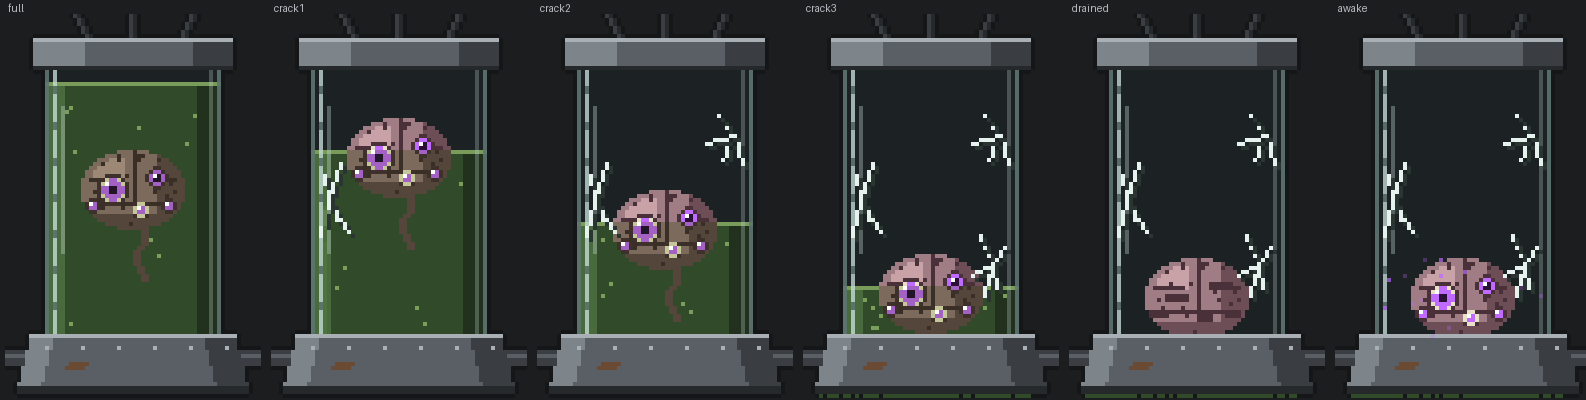
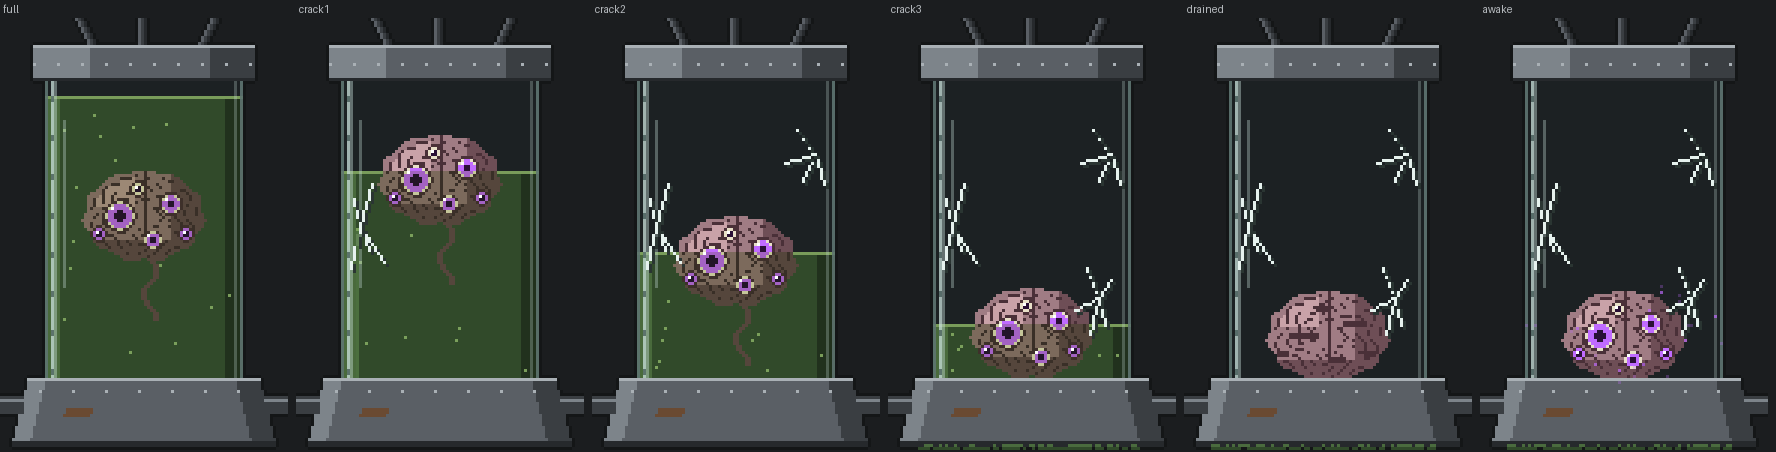
Brain vat at 3x4.5 tiles, brain folds redone
Claude-Session: https://claude.ai/code/session_017RM7tWVFFchFrbQYy4G9ho

diff --git a/ArtSource/bosses/make_brain_vat.py b/ArtSource/bosses/make_brain_vat.py
@@ -1,5 +1,5 @@
 """The brain in the vat (Yan, 2026-11-03): a psychic mutant brain with several eyes, floating in murky liquid in a lab vat.
-Drawn at double resolution like the HD mutants (64x96, ppu 32 -> 2x3 tiles). States: full, crack1-3 (liquid drains), drained
+Drawn at double resolution like the HD mutants (96x144, ppu 32 -> 3x4.5 tiles; Yan: "go bigger" than 2x3). States: full, crack1-3 (liquid drains), drained
 (eyes shut), awake (eyes open, before the void pull takes it away). Procedural shapes snapped to the pixel grid, the locked
 palette rules (near-black outline, flat 3-tone shading, saturated colour only in the eyes/psi glow).
     python3 ArtSource/bosses/make_brain_vat.py [out_dir]
@@ -7,7 +7,9 @@ palette rules (near-black outline, flat 3-tone shading, saturated colour only in
 import sys, os, math, random
 from PIL import Image
 
-W, H = 64, 96
+K = 1.5                                     # every length below was laid out at 64x96; K scales it up
+W, H = 96, 144
+def k(v): return int(round(v * K))
 def hexc(h, a=255): h = h.lstrip('#'); return (int(h[0:2], 16), int(h[2:4], 16), int(h[4:6], 16), a)
 OUT = hexc('#141617')
 STEEL = [hexc(c) for c in ('#26292c', '#3a3e42', '#5a5f65', '#7d848a', '#a9b0b5')]
@@ -20,10 +22,10 @@ BR = {'d': hexc('#6e4e56'), 'b': hexc('#a07c84'), 'l': hexc('#c9a2a8'), 'k': hex
 EYE_W, EYE_I, EYE_P, EYE_G, LID = hexc('#e8e0c8'), hexc('#c06bff'), hexc('#2a1036'), hexc('#ffffff'), hexc('#5a3a44')
 PSI = hexc('#c06bff', 70)
 
-GX0, GX1, GY0, GY1 = 10, 53, 14, 80        # glass interior
-LEVELS = {'full': 17, 'crack1': 34, 'crack2': 52, 'crack3': 68, 'drained': 81, 'awake': 81}
-EYES = [(-5, 0, 3.4), (6, -3, 2.4), (2, 5, 2.0), (-10, 4, 1.6), (9, 4, 1.6)]
-CRACKS = [(14, 46, [(-1, -6), (3, -9), (2, 5), (5, 8), (-2, 9)]), (49, 30, [(-4, -5), (-3, 6), (2, 7), (-7, 2)]), (47, 62, [(-3, -7), (3, -4), (-5, 3), (1, 6), (-2, 8)])]
+GX0, GX1, GY0, GY1 = k(10), k(53), k(14), k(80)   # glass interior
+LEVELS = {n: k(v) for n, v in {'full': 17, 'crack1': 34, 'crack2': 52, 'crack3': 68, 'drained': 81, 'awake': 81}.items()}
+EYES = [(k(dx), k(dy), r * K) for dx, dy, r in [(-5, 0, 3.4), (6, -3, 2.4), (2, 5, 2.0), (-10, 4, 1.6), (9, 4, 1.6), (-1, -6, 1.4)]]
+CRACKS = [(k(x), k(y), [(k(a), k(b)) for a, b in legs]) for x, y, legs in [(14, 46, [(-1, -6), (3, -9), (2, 5), (5, 8), (-2, 9)]), (49, 30, [(-4, -5), (-3, 6), (2, 7), (-7, 2)]), (47, 62, [(-3, -7), (3, -4), (-5, 3), (1, 6), (-2, 8)])]]
 
 def px(im, x, y, c):
     if 0 <= x < W and 0 <= y < H:
@@ -34,17 +36,18 @@ def tint(c, k, g):                         # under the liquid: darker and greene
     return (int(c[0] * k), int(min(255, c[1] * k + g)), int(c[2] * k * 0.9), c[3])
 
 def brain(im, cx, cy, level, eyes_open, rng):
-    rx, ry = 13, 10
+    rx, ry = k(13), k(10)
     for y in range(cy - ry - 1, cy + ry + 2):
         for x in range(cx - rx - 1, cx + rx + 2):
             u, v = (x - cx + 0.5) / rx, (y - cy + 0.5) / ry
             d = u * u + v * v
-            if d > 1: continue
+            ang = math.atan2(v, u)
+            if d > 1 + 0.07 * math.sin(ang * 11): continue             # a lumpy edge
             c = BR['l'] if (u < -0.15 and v < -0.2 and d < 0.75) else BR['d'] if (u > 0.45 or v > 0.55) else BR['b']
             # folds: a wavy dark line pattern, the midline split
-            w = math.sin((x - cx) * 0.62 + math.sin((y - cy) * 0.55) * 2.6) * math.cos((y - cy) * 0.5)
+            w = math.sin(math.sqrt(d) * 16 + math.sin(ang * 6 + (1 if x > cx else 0) * 2) * 1.7)   # folds: wavy loops round the middle
             if abs(x - cx) < 1 and v < 0.6: c = BR['k']
-            elif abs(w) < 0.13 and 0.12 < d < 0.82: c = BR['k']
+            elif abs(w) < 0.32 and 0.05 < d < 0.86: c = BR['k']
             if y >= level: c = tint(c, 0.78, 10)
             px(im, x, y, c)
     for dx, dy, r in EYES:                 # eyes sunk in the folds
@@ -63,8 +66,8 @@ def brain(im, cx, cy, level, eyes_open, rng):
                 if y >= level: c = tint(c, 0.85, 8)
                 px(im, x, y, c)
         if eyes_open and r >= 1.5: px(im, int(ex - r * 0.4), int(ey - r * 0.4), EYE_G)
-    for k in range(14):                    # the stem, swaying down
-        x = cx + 1 + int(round(math.sin(k * 0.6) * 1.5)); y = cy + ry - 1 + k
+    for j in range(k(14)):                 # the stem, swaying down
+        x = cx + 1 + int(round(math.sin(j * 0.6 / K) * 1.5 * K)); y = cy + ry - 1 + j
         if y > GY1 - 1: break
         for dx in (0, 1): px(im, x + dx, y, tint(BR['d'], 0.78, 10) if y >= level else BR['d'])
 
@@ -80,18 +83,18 @@ def vat(state, frame=0):
             else: c = LIQ['d'] if x > GX1 - 6 else LIQ['l'] if x < GX0 + 5 else LIQ['b']
             px(im, x, y, c)
     if level < GY1:                         # bubbles rising
-        for i in range(10):
+        for i in range(16):
             bx = rng.randint(GX0 + 3, GX1 - 3); by = rng.randint(level + 2, GY1 - 2)
             px(im, bx, by, LIQ['s'])
     awake = state in ('full', 'crack1', 'crack2', 'crack3', 'awake')
-    cy = 44 if level < 30 else min(GY1 - 9, level + 2)   # half under the surface as it drops
-    if state in ('drained', 'awake'): cy = GY1 - 9   # slumped on the floor of the vat
-    brain(im, 32, cy, level, awake, rng)
+    cy = k(44) if level < k(30) else min(GY1 - k(9), level + k(2))   # half under the surface as it drops
+    if state in ('drained', 'awake'): cy = GY1 - k(9)   # slumped on the floor of the vat
+    brain(im, W // 2, cy, level, awake, rng)
     # glass: the lit left edge, the darker right rim, a reflection streak
     for y in range(GY0, GY1):
         px(im, GX0, y, GLASS_RIM); px(im, GX1, y, GLASS_RIM)
-        px(im, GX0 + 2, y, GLASS_HI if y % 9 not in (0, 1) else GLASS_RIM)
-        if 22 < y < 60: px(im, GX0 + 4, y, hexc('#c4dcd6', 90))
+        px(im, GX0 + 2, y, GLASS_HI if y % 13 not in (0, 1) else GLASS_RIM); px(im, GX0 + 3, y, hexc('#c4dcd6', 110))
+        if k(22) < y < k(60): px(im, GX0 + 6, y, hexc('#c4dcd6', 90))
         px(im, GX1 - 2, y, hexc('#c4dcd6', 70))
     # cracks, one per stage, with liquid running out of each down the glass
     n = {'crack1': 1, 'crack2': 2, 'crack3': 3, 'drained': 3, 'awake': 3}.get(state, 0)
@@ -102,32 +105,34 @@ def vat(state, frame=0):
                 x = sx + round(lx * t / steps); y = sy + round(ly * t / steps)
                 px(im, x, y, CRACK); px(im, x + 1, y + 1, CRACK_D)
         if level <= sy and state != 'drained' and state != 'awake':
-            for y in range(sy + 2, GY1 + 2): px(im, sx + (1 if sx > 32 else -1), y, LIQ['l'])
+            for y in range(sy + 2, GY1 + 2): px(im, sx + (1 if sx > W // 2 else -1), y, LIQ['l'])
     # top cap with cables, base with bolts and pipes
-    for y in range(6, GY0):
-        for x in range(GX0 - 3, GX1 + 4):
-            c = STEEL[4] if y == 6 else STEEL[3] if x < 20 else STEEL[1] if x > 46 else STEEL[2]
+    for y in range(k(6), GY0):
+        for x in range(GX0 - 4, GX1 + 5):
+            c = STEEL[4] if y == k(6) else STEEL[3] if x < k(20) else STEEL[1] if x > k(46) else STEEL[2]
+            if y == k(10) and x % 8 == 3: c = STEEL[4]   # rivets
             if y == GY0 - 1: c = STEEL[0]
             px(im, x, y, c)
-    for cx0, side in ((20, -1), (31, 0), (44, 1)):          # hoses out of the lid, curving off to the sides
-        for y in range(0, 6):
-            x = cx0 + side * (5 - y) // 2
-            px(im, x, y, STEEL[1]); px(im, x + 1, y, STEEL[0])
+    for cx0, side in ((k(20), -1), (k(31), 0), (k(44), 1)):   # hoses out of the lid, curving off to the sides
+        for y in range(0, k(6)):
+            x = cx0 + side * (k(6) - y) // 2
+            px(im, x, y, STEEL[2]); px(im, x + 1, y, STEEL[1]); px(im, x + 2, y, STEEL[0])
     for y in range(GY1, H - 1):
-        x0 = GX0 - 4 - (y - GY1) // 4; x1 = GX1 + 4 + (y - GY1) // 4
+        x0 = GX0 - 6 - (y - GY1) // 4; x1 = GX1 + 6 + (y - GY1) // 4
         for x in range(x0, x1 + 1):
             c = STEEL[3] if x < x0 + 6 else STEEL[1] if x > x1 - 8 else STEEL[2]
             if y == GY1: c = STEEL[4]
             if y > H - 4: c = STEEL[0]
-            if (x - x0) % 9 == 4 and y == GY1 + 3: c = STEEL[4]   # bolts
-            if y in (GY1 + 7, GY1 + 8) and (x0 + 10 < x < x0 + 16): c = RUST
+            if (x - x0) % 11 == 5 and y == GY1 + 4: c = STEEL[4]   # bolts
+            if y in (GY1 + 10, GY1 + 11, GY1 + 12) and (x0 + 14 < x < x0 + 24): c = RUST
             px(im, x, y, c)
-    for y in range(GY1 + 4, GY1 + 8):        # pipes off the base
-        for x in range(0, GX0 - 5): px(im, x, y, STEEL[2] if y == GY1 + 5 else STEEL[1])
-        for x in range(GX1 + 6, W): px(im, x, y, STEEL[2] if y == GY1 + 5 else STEEL[1])
+    for y in range(GY1 + 6, GY1 + 12):       # pipes off the base
+        for x in range(0, GX0 - 7): px(im, x, y, STEEL[3] if y == GY1 + 7 else STEEL[1])
+        for x in range(GX1 + 8, W): px(im, x, y, STEEL[3] if y == GY1 + 7 else STEEL[1])
     if state in ('drained', 'awake', 'crack3'):    # the spill on the floor in front
         for x in range(GX0 - 6, GX1 + 4):
             if rng.random() < 0.8: px(im, x, H - 1, LIQ['b'])
+            if rng.random() < 0.4: px(im, x, H - 2, LIQ['l'])
     # outline the silhouette
     a = im.copy().load(); o = im.load()
     for y in range(H):
@@ -135,9 +140,9 @@ def vat(state, frame=0):
             if a[x, y][3] == 0 and any(0 <= x + dx < W and 0 <= y + dy < H and a[x + dx, y + dy][3] > 100 for dx, dy in ((1, 0), (-1, 0), (0, 1), (0, -1))):
                 o[x, y] = OUT
     if state == 'awake':                      # the psi stirring round the eyes
-        for i in range(14):
-            ang = rng.random() * math.tau; r = rng.uniform(8, 17)
-            px(im, int(32 + math.cos(ang) * r * 1.3), int(GY1 - 9 + math.sin(ang) * r * 0.7), PSI if i % 3 else hexc('#c06bff', 170))
+        for i in range(22):
+            ang = rng.random() * math.tau; r = rng.uniform(k(8), k(17))
+            px(im, int(W // 2 + math.cos(ang) * r * 1.3), int(GY1 - k(9) + math.sin(ang) * r * 0.7), PSI if i % 3 else hexc('#c06bff', 170))
     return im
 
 STATES = ['full', 'crack1', 'crack2', 'crack3', 'drained', 'awake']

diff --git a/ArtSource/WORK_LOG.md b/ArtSource/WORK_LOG.md
@@ -4552,3 +4552,8 @@ the edges? After that's done try rendering the fight". Mutant parries and co-op 
   like "$"; fixed in v2.
 - Real render: `maps/renders/boss_brain/brain_vat_in_lab.png` (the vat in Secret Lab Alpha's big room at in-game size, a person
   for scale, the void pull over the awake state), states sheet `brain_vat_states.png`. Not in the game yet.
+- Round 2 (Yan: "go bigger"): redrawn at 96x144 (3x4.5 tiles at double resolution) from the same layout scaled by `K` - not an
+  upscale. The brain's folds redone as wavy loops round the middle with a lumpy edge (the first pass at this size read as bricks),
+  a sixth eye, riveted lid, thicker hoses and pipes. The escape shot uses the full-size black hole. Renders replaced.
+- Yan also: Secret Lab Alpha "looks very even in space, it doesn't have a linear progression" - on the to-do list in
+  ACTION_DESIGN ("Dungeons you figure out").
